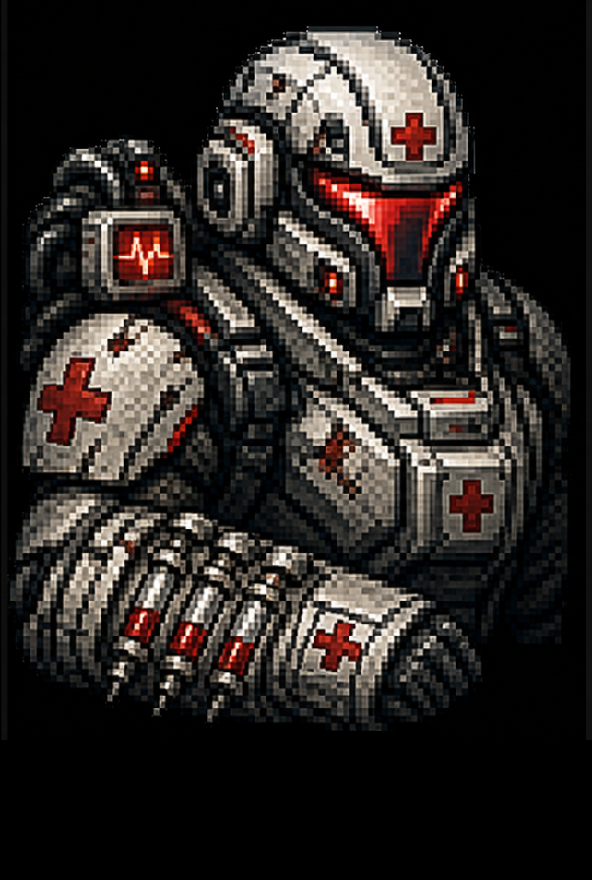
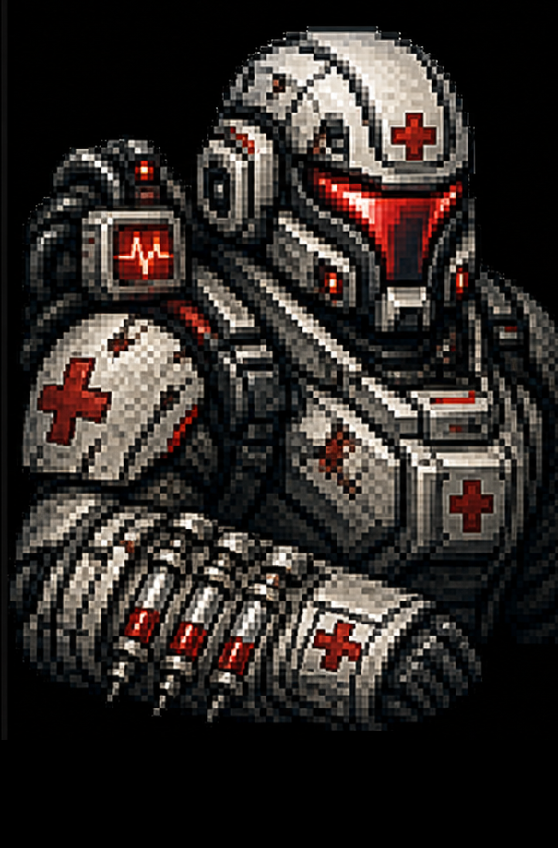
fix(art): normalize all hero portraits to one consistent zoom/POV
The source portraits were authored at inconsistent subject zooms — some busts
~20% larger than others — so on the battle card units read at visibly different
zoom levels (e.g. Splice zoomed in, Engineer out) while Strike sat in the middle.
Re-cropped every hero portrait (25 files incl. evolutions/variants) to a common
head size + position: a full-bleed bust at one zoom/POV across the roster. Crop
only, native-res (no upscale) so they stay crisp; a few glow/dark-helmet variants
got a manual head-width override where auto head-detection misfired. Verified in
the real battle card (trio now uniform) and via a full-roster render.

diff --git a/docs/TRUTH.md b/docs/TRUTH.md
@@ -231,7 +231,7 @@ two-player crossfade pair, tracks in `assets/audio/music/sci_fi_loop_N.ogg`
 
 ## Assets — portraits (2026-07-07 wiring pass)
 
-**Hero portraits:** base art `assets/portraits/<hero_id>.png` (`DataManager.HERO_PORTRAIT_BY_ID`). **Evolved art convention: `assets/portraits/<hero_id>_<evo_id>.png`**, where `evo_id` is the evolution entry's `id` field in `heroes.data.json` — the lowercased callsign, schema-enforced (pyro, arc, blade, ravager, bulwark, sentinel, glacier, trench, medic, synth, overclocked, phantom, shadow, wraith, noise, nullwire). `DataManager.get_evolution_portrait()` resolves it; a missing file silently falls back to the base portrait (never errors, never blanks). The swap rides `GameState.get_run_unit_data()`, so every run-unit surface (battle cards, equip labels, sim) inherits it; the evolution screen previews each branch's own portrait. All 24 files (8 base overwrites + 16 evolutions) installed 2026-07-07. Both art styles pass through the crop-to-content contract (`_crop_to_content`, cutout vs full-bleed tag).
+**Hero portraits:** base art `assets/portraits/<hero_id>.png` (`DataManager.HERO_PORTRAIT_BY_ID`). **Evolved art convention: `assets/portraits/<hero_id>_<evo_id>.png`**, where `evo_id` is the evolution entry's `id` field in `heroes.data.json` — the lowercased callsign, schema-enforced (pyro, arc, blade, ravager, bulwark, sentinel, glacier, trench, medic, synth, overclocked, phantom, shadow, wraith, noise, nullwire). `DataManager.get_evolution_portrait()` resolves it; a missing file silently falls back to the base portrait (never errors, never blanks). The swap rides `GameState.get_run_unit_data()`, so every run-unit surface (battle cards, equip labels, sim) inherits it; the evolution screen previews each branch's own portrait. All 24 files (8 base overwrites + 16 evolutions) installed 2026-07-07. Both art styles pass through the crop-to-content contract (`_crop_to_content`, cutout vs full-bleed tag). **Zoom-normalized 2026-07-12 (Batch 6):** the source art was authored at inconsistent subject zooms (some busts ~20% larger than others), so every hero portrait PNG (25 files incl. variants) was re-cropped to a common head size + position — a full-bleed bust at one consistent zoom/POV across the whole roster, so any squad reads uniformly on the battle card. Cropping only (native-res, no upscale) keeps them crisp; a couple of glow/dark-helmet variants (`medic_synth`, `pulse_pyro`, `engineer_phantom`) needed a manual head-width override where auto-detection misfired.
 
 **Enemy portraits:** `assets/portraits/enemies/` via `ENEMY_PORTRAIT_BY_NAME` (bare filenames only — no `res://` long forms), fallback `_slugify(display_name).png`. As of 2026-07-07 all 38 unit defs have explicit map entries and every one resolves. Legacy-era files renamed to current unit names (git history preserves the lineage): rift_macaque→pumice_macaque, eclipse_panther→geode_panther, ridge_drake→magma_drake, eclipse_raptor→pyroclast_raptor, thunder_ape→basalt_ape, void_reaver→mantle_tyrant, sparksprite→glitch_sprite, levyn_acolyte→init_acolyte, chronicle_scribe→checksum_scribe, geas_binder→axiom_binder, glimmer_double→forked_double, arc_titan_channeler→daemon_channeler, circlet_hierophant→root_hierophant, whitenoise_skimmer→static_skimmer, void_hound→obsidian_hound.
 
